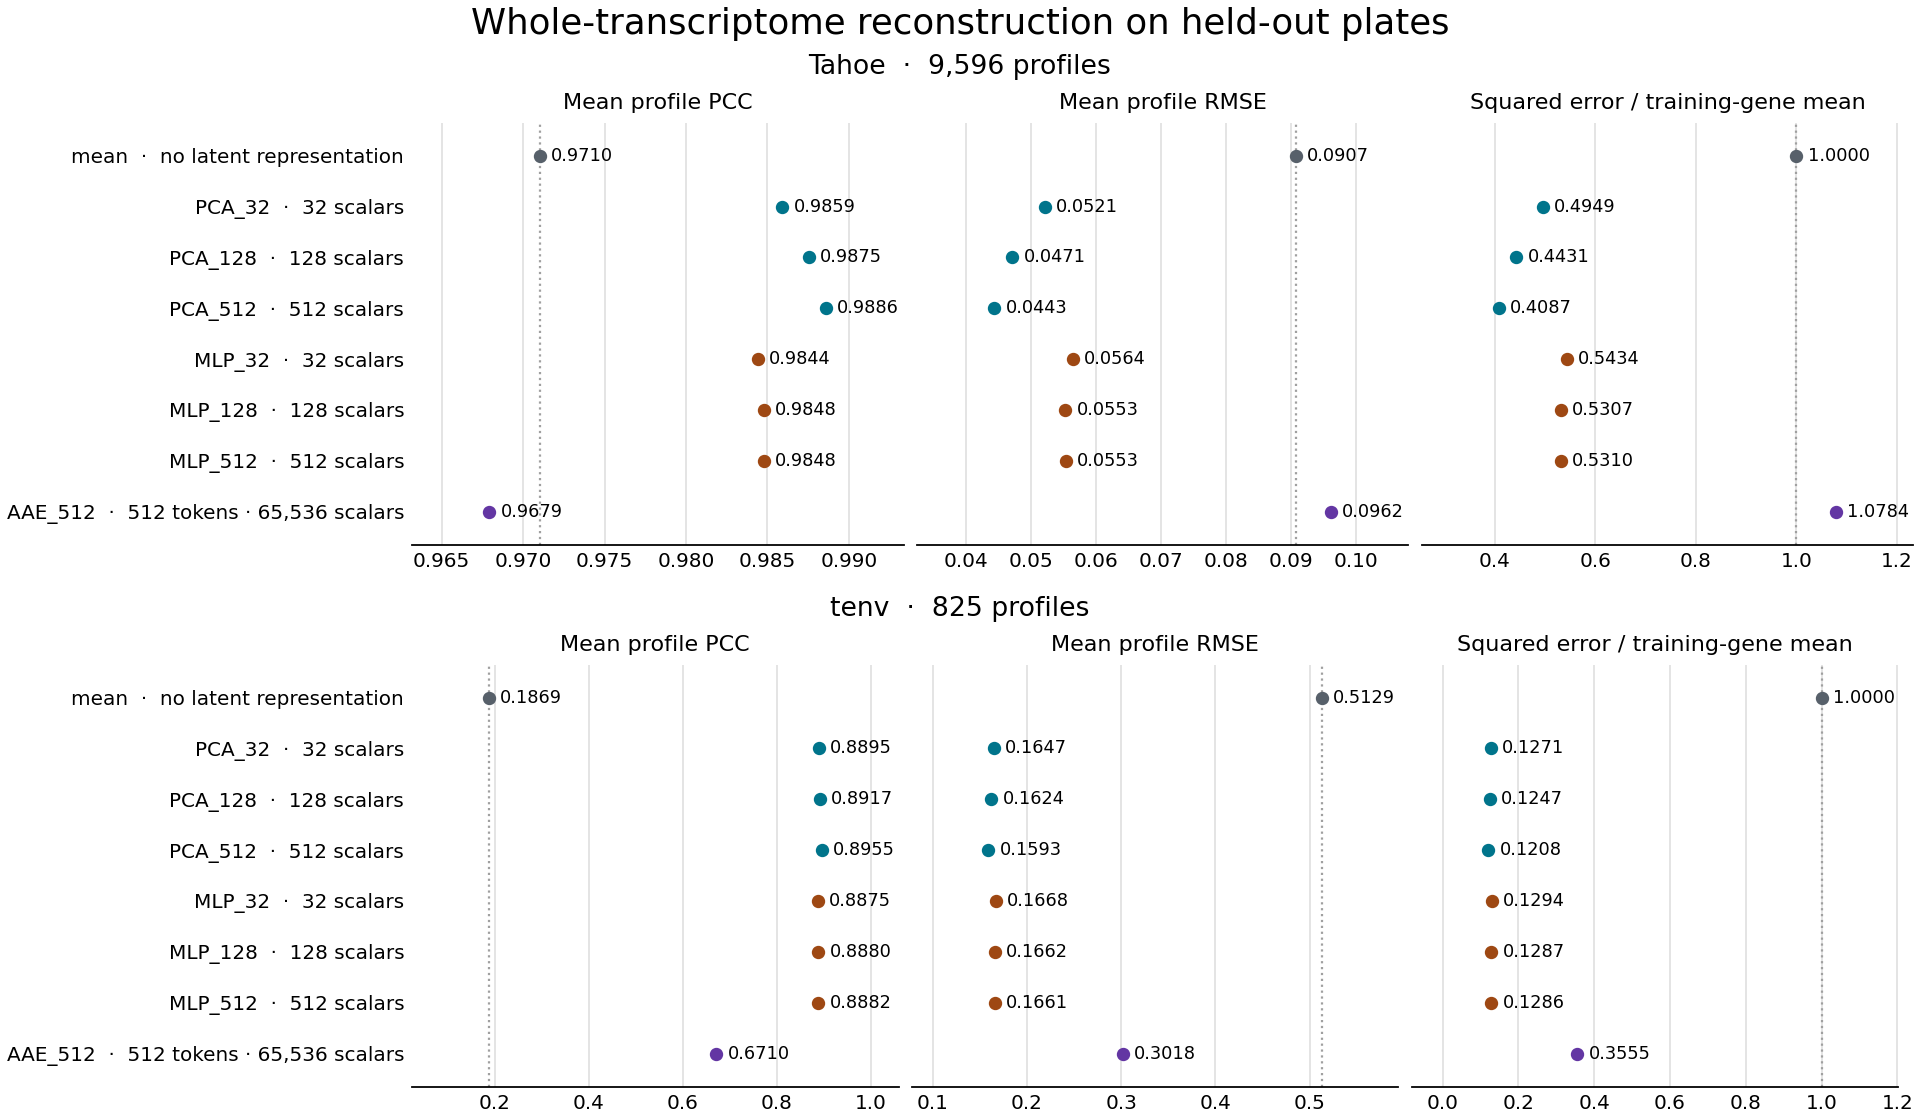
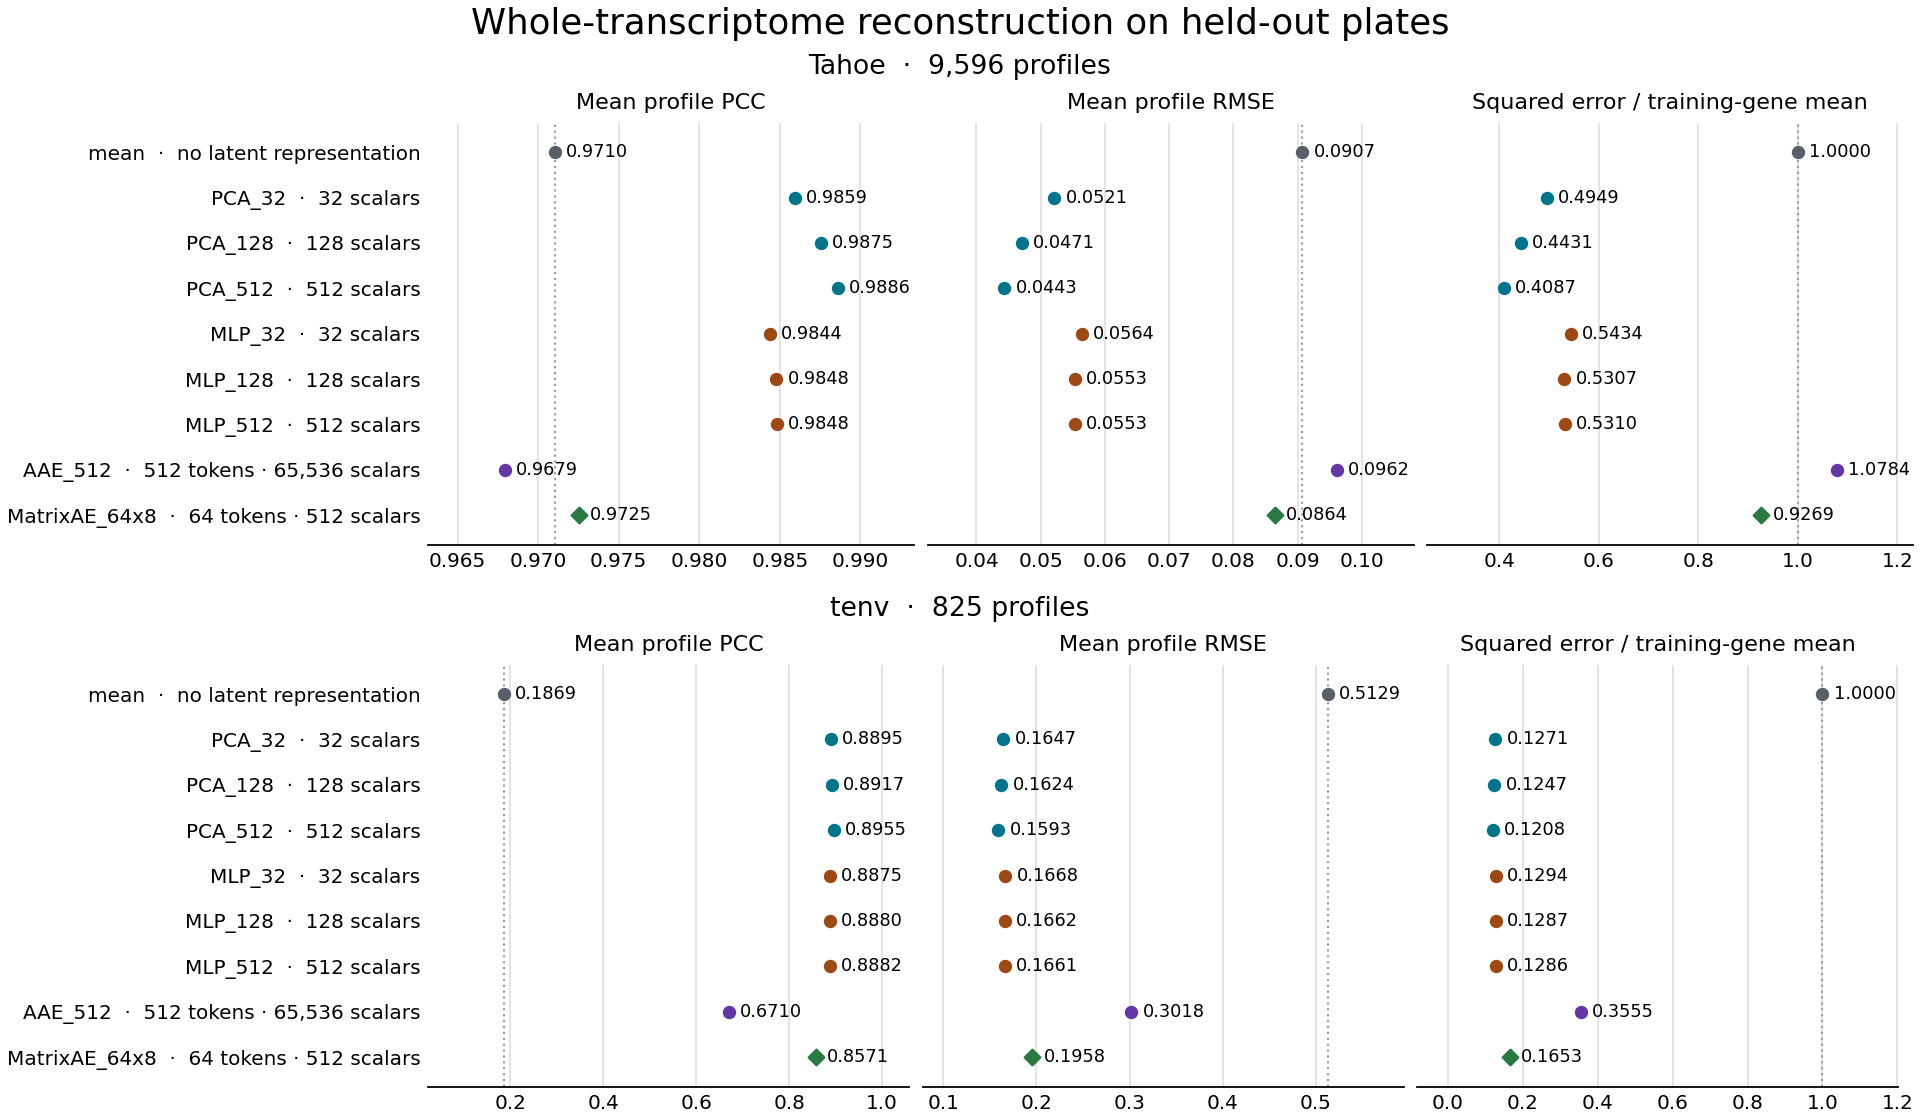
Publish the Step 07 matrix autoencoder comparison

diff --git a/stage2/07_autoencoder/README.md b/stage2/07_autoencoder/README.md
@@ -26,18 +26,19 @@ order, ranks, memberships and full coverage.
 
 ## Held-out reconstruction comparison
 
-Each of the eight configurations reconstructed the same 9,596 Tahoe and 825
+Each of the nine configurations reconstructed the same 9,596 Tahoe and 825
 tenv test profiles. The [selection seal](output/test_seal.json) was committed
 before scoring. It binds the selected validation scores, fitted manifest and
 payload hashes to the corrected corpus, ordered gene axis and frozen split.
 
-![Test PCC, RMSE and relative squared error for eight reconstruction configurations on Tahoe and tenv](output/reconstruction_test.png)
+![Test PCC, RMSE and relative squared error for nine reconstruction configurations on Tahoe and tenv](output/reconstruction_test.png)
 
-`PCA_512` led all three metrics on both sources. Its squared error was 40.9%
-of the training-gene mean's error on Tahoe and 12.1% on tenv. The longer
-`AAE_512` fit reduced relative squared error from 1.1333 to 1.0784 on Tahoe
-and from 0.4958 to 0.3555 on tenv. Mean profile PCC rose from 0.9655 to 0.9679
-on Tahoe and from 0.4932 to 0.6710 on tenv.
+`MatrixAE_64x8` improved on `AAE_512` across all three metrics on both
+sources. The relative squared error fell from 1.0784 to 0.9269 on Tahoe and
+from 0.3555 to 0.1653 on tenv. Mean profile PCC rose from 0.9679 to 0.9725 on
+Tahoe and from 0.6710 to 0.8571 on tenv. `PCA_512` led all three metrics on
+both sources, with relative squared errors of 0.4087 and 0.1208.
+The eight prior score reports match the previous comparison at `1654ec0`.
 
 The [test scores](output/test_scores.json) give full-precision metrics,
 including the number of defined PCCs and the profile count for every source
@@ -59,14 +60,14 @@ the paths listed in the manifests and verify their digests against the seal.
 A new fit can be evaluated on validation and may produce different bytes.
 Fit and validation resource records
 are available for [mean](execution/mean_record/run.json),
-[PCA](execution/pca_record/run.json), [MLP](execution/mlp_record/run.json), and
-[AAE](execution/aae_record/run.json).
+[PCA](execution/pca_record/run.json), [MLP](execution/mlp_record/run.json),
+[AAE](execution/aae_record/run.json), and [MatrixAE](execution/matrixae_record/run.json).
 
 From the repository root in the `arc` environment, run replay with fresh
 resource admission as recorded in the [comparison run](execution/comparison_record/run.json).
-Replay verifies the seal, loads all eight local artifacts and checks the
+Replay verifies the seal, loads all nine local artifacts and checks the
 published scores with relative tolerance `1e-6` and absolute tolerance `1e-8`.
-Mean and PCA score on CPU. MLP and AAE score on CUDA. Run CUDA jobs serially
+Mean and PCA score on CPU. MLP, AAE and MatrixAE score on CUDA. Run CUDA jobs serially
 and check free GPU memory with `nvidia-smi` before starting. The replay record
 uses a 5,120 MiB free GPU memory floor. Use `run_step07` from this block for
 the fit and validation examples below in the same shell.
@@ -236,4 +237,35 @@ run_step07 "$cli" score --artifact "$artifact" --device cuda --role validation -
 run_step07 "$cli" reload --artifact "$artifact" --device cuda --role validation --expected "$scores"
 python stage2/07_autoencoder/execution/script/compare.py aae-loss-figure \
   --history "$artifact/epochs.json" --output /tmp/arc-aae-loss.png
+```
+
+### Compact matrix autoencoder reconstruction
+
+`MatrixAE_64x8` uses 64 learned latent queries and eight bottleneck channels
+per query. Its 512 latent scalars match the budget of `PCA_512` and
+`MLP_512`. Learned gene identities and projected measured expression feed
+the encoder, and gene identity queries read the latent tokens to reconstruct
+the full axis. Two latent Transformer blocks on either side of the
+bottleneck use 128 internal channels. The model adapts the deterministic
+autoencoder path of [scLDM](https://arxiv.org/html/2511.02986v2) to the
+full measured Step 07 input and MSE objective. [ADR 0053](../../docs/adr/0053-step07-compact-matrix-autoencoder.md)
+records the design.
+
+The fit uses the AAE optimizer, batch size, early stopping and update cap.
+It reached 10,000 updates and selected the checkpoint at 6,332 updates,
+with validation MSE of 0.007422 on Tahoe and 0.044412 on tenv.
+The [epoch history](output/models/MatrixAE_64x8/epochs.json) records the
+joint training batch losses and both validation losses.
+
+![MatrixAE joint training MSE and source-specific validation MSE by optimizer updates](output/matrix_ae_loss.png)
+
+```bash
+cli=stage2/07_autoencoder/execution/script/reconstruct.py
+artifact=/tmp/arc-MatrixAE_64x8
+scores=/tmp/arc-MatrixAE_64x8-validation.json
+run_step07 "$cli" fit --model MatrixAE_64x8 --device cuda --output "$artifact"
+run_step07 "$cli" score --artifact "$artifact" --device cuda --role validation --output "$scores"
+run_step07 "$cli" reload --artifact "$artifact" --device cuda --role validation --expected "$scores"
+python stage2/07_autoencoder/execution/script/compare.py matrix-ae-loss-figure \
+  --history "$artifact/epochs.json" --output /tmp/arc-matrix-ae-loss.png
 ```
